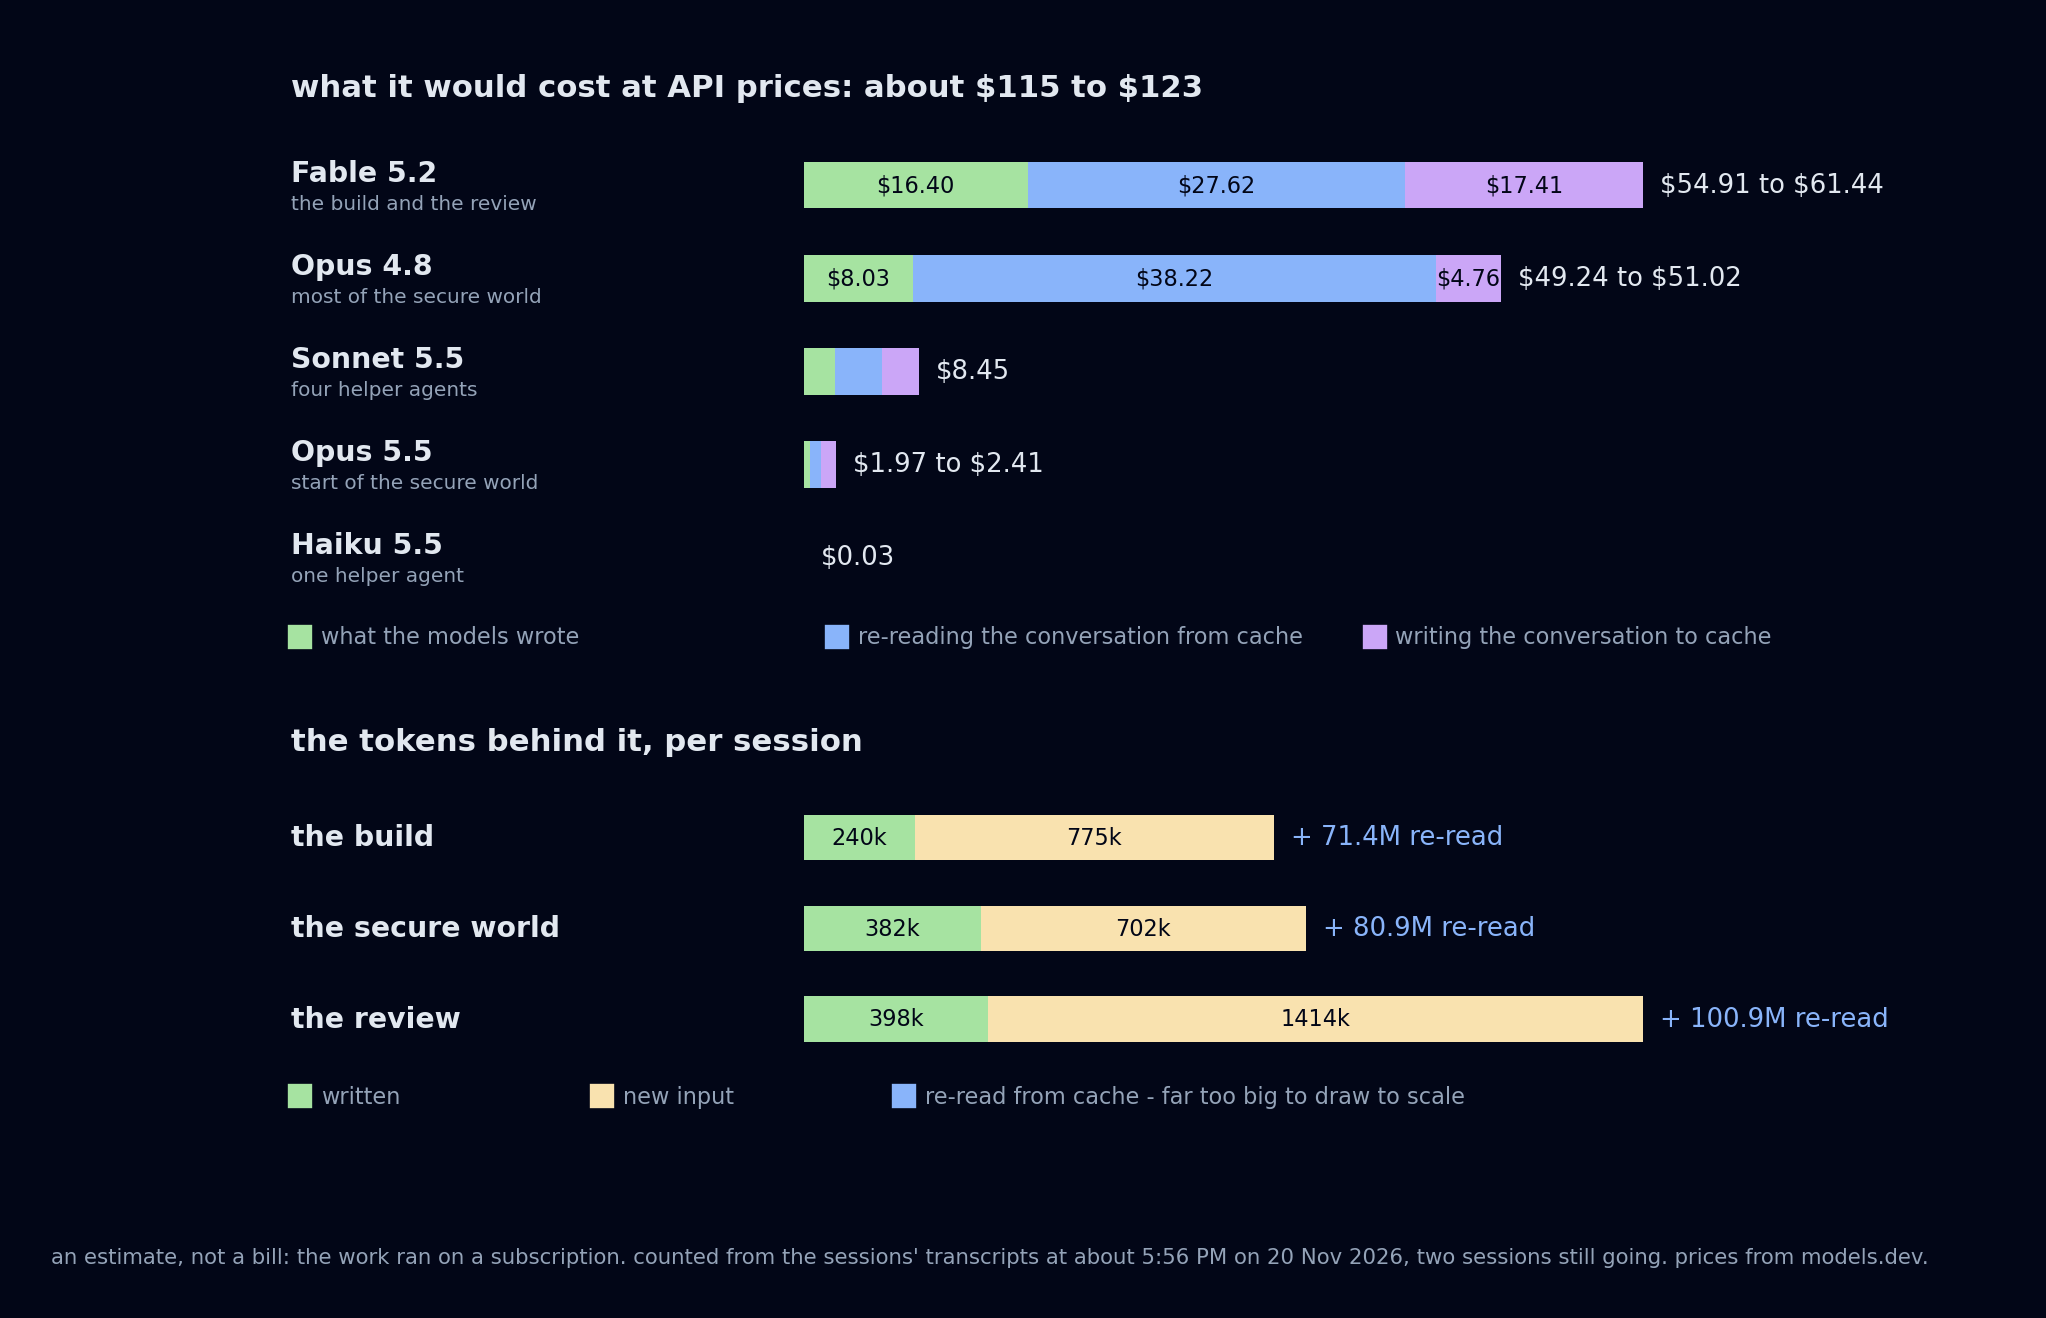
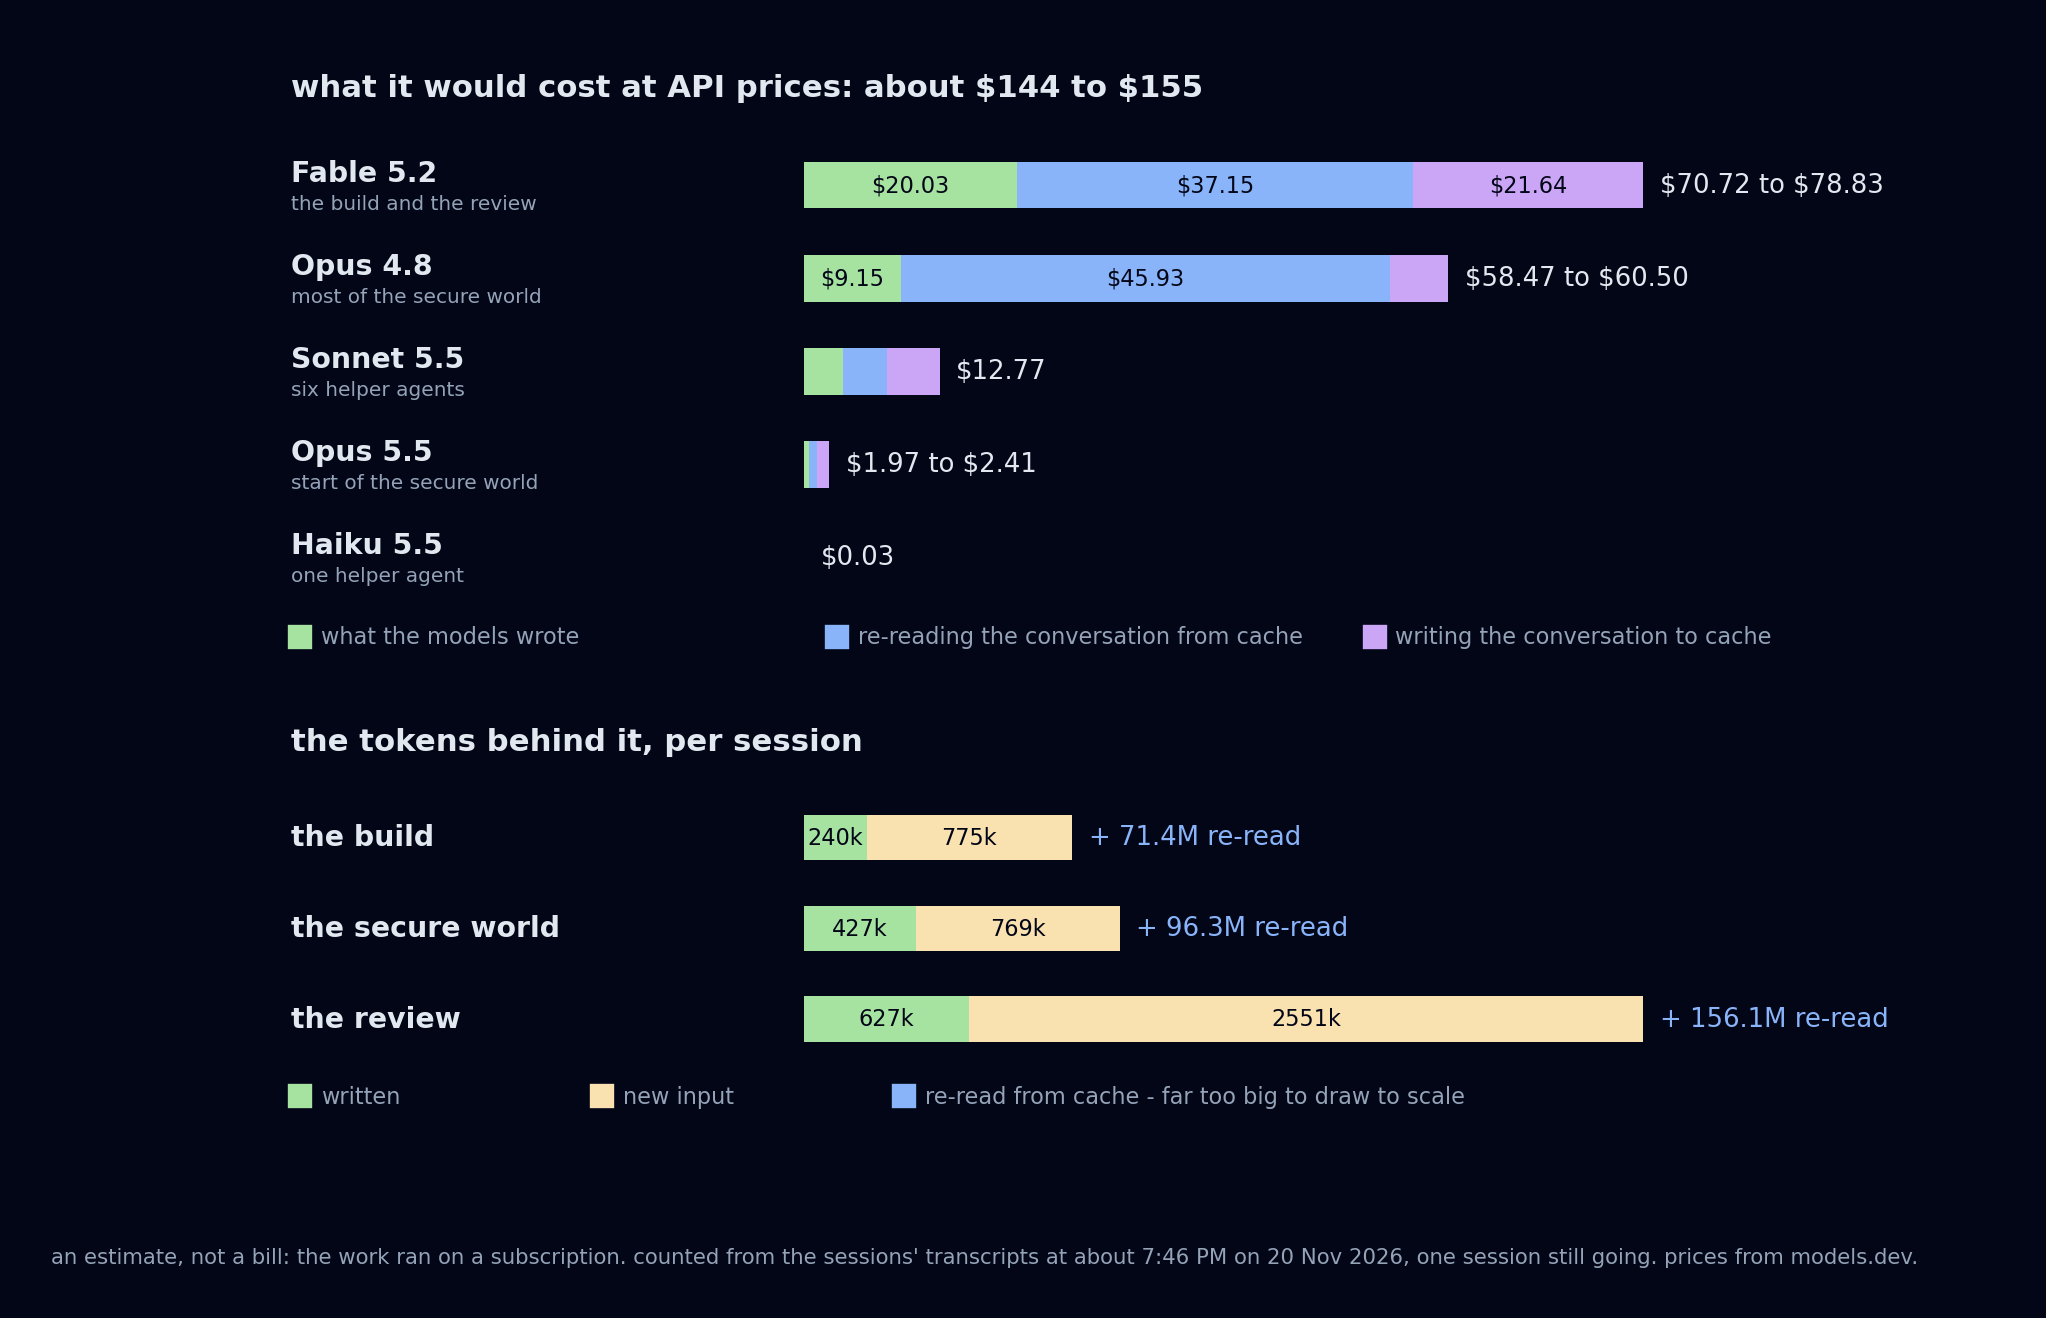
what it took: recounted at about 7:46 PM on 20 Nov, both charts redrawn
1,168 tool calls (85 REA, unchanged), about $144 to $155 at API prices, up
from the 5:56 PM count's 974 and $115 to $123: the blueprint, the third
blind read and the polish came after it. Same script, same prices.

Also corrects one line: the review session's 49 REA calls are all its own.
A per-file count shows its five helpers made none, so the old wording, which
credited some to the blind reads, was wrong.

diff --git a/tools/cost_chart.py b/tools/cost_chart.py
@@ -3,8 +3,8 @@
 and the tokens behind it.
 
 No firmware needed, the numbers are written in below. Tokens were counted from
-the three sessions' transcripts (and their helper agents) at about 5:56 PM on
-20 Nov 2026 with two sessions still going, so this is a snapshot. Prices are
+the three sessions' transcripts (and their helper agents) at about 7:46 PM on
+20 Nov 2026 with one session still going, so this is a snapshot. Prices are
 USD per million tokens from models.dev, read the same day. The work ran on a
 subscription: this is an estimate of the per-token price, not a bill.
 
@@ -28,17 +28,17 @@ OUT = "#a6e3a1"; READ = "#89b4fa"; WRITE = "#cba6f7"; NEW = "#f9e2af"
 # model, where it ran, uncached in, output, cache read, cache write,
 # prices (input, output, cache read, cache write), one-hour cache (True/False)
 MODELS = [
-    ("Fable 5.2", "the build and the review", 902, 410031, 138119018, 1087840, (8, 40, 0.2, 10), True),
-    ("Opus 4.8", "most of the secure world", 400, 321312, 76446581, 476338, (5, 25, 0.5, 6.25), True),
-    ("Sonnet 5.5", "four helper agents", 526, 227991, 34245203, 1099116, (2, 10, 0.1, 2.5), False),
+    ("Fable 5.2", "the build and the review", 1096, 500848, 185727852, 1352769, (8, 40, 0.2, 10), True),
+    ("Opus 4.8", "most of the secure world", 448, 365811, 91854082, 542882, (5, 25, 0.5, 6.25), True),
+    ("Sonnet 5.5", "six helper agents", 672, 366253, 41777663, 1970862, (2, 10, 0.1, 2.5), False),
     ("Opus 5.5", "start of the secure world", 74, 24871, 3768173, 144437, (4, 20, 0.2, 5), True),
     ("Haiku 5.5", "one helper agent", 30, 36274, 637626, 81089, (0.1, 0.5, 0.01, 0.125), False),
 ]
 # session, written, new input, re-read from cache (tokens)
 SESSIONS = [
     ("the build", 240_000, 775_000, 71_400_000),
-    ("the secure world", 382_000, 702_000, 80_900_000),
-    ("the review", 398_000, 1_414_000, 100_900_000),
+    ("the secure world", 427_000, 769_000, 96_300_000),
+    ("the review", 627_000, 2_551_000, 156_100_000),
 ]
 
 out = sys.argv[1] if len(sys.argv) > 1 else os.path.join(
@@ -111,7 +111,7 @@ for j, (colour, text) in enumerate(((OUT, "written"), (NEW, "new input"),
     b.text(x + wide * 0.025, -0.95, text, ha="left", va="center", fontsize=9.5, color=MUTED)
 
 fig.text(0.02, 0.01, "an estimate, not a bill: the work ran on a subscription. counted from the sessions' transcripts "
-         "at about 5:56 PM on 20 Nov 2026, two sessions still going. prices from models.dev.",
+         "at about 7:46 PM on 20 Nov 2026, one session still going. prices from models.dev.",
          fontsize=9, color=MUTED)
 fig.subplots_adjust(hspace=0.08)
 fig.savefig(out, bbox_inches="tight", pad_inches=0.3)

diff --git a/tools/tool_calls_chart.py b/tools/tool_calls_chart.py
@@ -4,7 +4,7 @@ was built and read, split by kind.
 
 No firmware needed, the numbers are written in below. They were counted from
 the three sessions' own transcripts (and their helper agents) at about
-5:56 PM on 20 Nov 2026, while two of the sessions were still going - a
+7:46 PM on 20 Nov 2026, while one of the sessions was still going - a
 snapshot, not a final tally. The transcripts aren't in the repo.
 
 usage: python3 tools/tool_calls_chart.py [output.png]
@@ -23,8 +23,8 @@ KINDS = [("shell commands", "#89b4fa"), ("REA (Ghidra)", "#a6e3a1"),
 # session, what it did, [shell, REA, file tools, everything else]
 ROWS = [
     ("the build", "phases 0 to 4: the outline, the how-to, the first bootloader read", [224, 21, 14, 10]),
-    ("the secure world", "phases 5 and 6: Trusty, the comparison, the README", [142, 15, 76, 13]),
-    ("the review", "checking the claims, the deep read of lk, two blind reads", [329, 49, 42, 39]),
+    ("the secure world", "phases 5 and 6: Trusty, the comparison, the README", [156, 15, 78, 17]),
+    ("the review", "checking the claims, the deep read of lk, three blind reads, the polish", [468, 49, 62, 54]),
 ]
 
 out = sys.argv[1] if len(sys.argv) > 1 else os.path.join(
@@ -59,6 +59,6 @@ for j, (kind, colour) in enumerate(KINDS):
 total = sum(sum(r[2]) for r in ROWS)
 rea = sum(r[2][1] for r in ROWS)
 fig.text(0.02, 0.01, f"{total} tool calls in all, {rea} of them REA. counted from the sessions' transcripts "
-         "at about 5:56 PM on 20 Nov 2026, with two sessions still going.", fontsize=9, color=MUTED)
+         "at about 7:46 PM on 20 Nov 2026, with one session still going.", fontsize=9, color=MUTED)
 fig.savefig(out, bbox_inches="tight", pad_inches=0.3)
 print(out)

diff --git a/docs/what-it-took.md b/docs/what-it-took.md
@@ -2,33 +2,33 @@
 
 building this repo - reading the firmware, writing it up, drawing the diagrams - ran across three Claude Code sessions and several helper agents. this page is the tool calls, the tokens, and what the same work would cost at API prices. how the reading itself was done is in [how the code was read](how-the-code-was-read.md).
 
-the three sessions, with their helpers: **the build** (phases 0 to 4 - the bundles, the images, the signing chain, the first bootloader read), **the secure world** (phases 5 and 6 - the Trusty TEE, the comparison, the diagrams) and **the review** (a third session, the deep `lk` boot-path read plus two blind reads of the finished repo). the git history is authored under two models (Fable 5.2 and Opus 4.8); the finer five-model split below is from the transcripts, not the commit log.
+the three sessions, with their helpers: **the build** (phases 0 to 4 - the bundles, the images, the signing chain, the first bootloader read), **the secure world** (phases 5 and 6 - the Trusty TEE, the comparison, the diagrams) and **the review** (a third session, the deep `lk` boot-path read, three blind reads of the finished repo, and the polish after them). the git history is authored under two models (Fable 5.2 and Opus 4.8); the finer five-model split below is from the transcripts, not the commit log.
 
-![tool calls per session, split into shell commands, REA, file tools and everything else: the build 269, the secure world 246, the review 459](../figures/tool-calls.png)
+![tool calls per session, split into shell commands, REA, file tools and everything else: the build 269, the secure world 266, the review 633](../figures/tool-calls.png)
 
-![the API-price estimate per model split into model output, cache reads and cache writes, about $115 to $123 in all, and the tokens per session: written, new input, and the far larger re-read total](../figures/cost-and-tokens.png)
+![the API-price estimate per model split into model output, cache reads and cache writes, about $144 to $155 in all, and the tokens per session: written, new input, and the far larger re-read total](../figures/cost-and-tokens.png)
 
 **tool calls, per session** (helper agents included):
 
 | session | shell | REA | file tools | everything else | total |
 |---|---|---|---|---|---|
 | the build | 224 | 21 | 14 | 10 | 269 |
-| the secure world | 142 | 15 | 76 | 13 | 246 |
-| the review | 329 | 49 | 42 | 39 | 459 |
-| **all three** | **695** | **85** | **132** | **62** | **974** |
+| the secure world | 156 | 15 | 78 | 17 | 266 |
+| the review | 468 | 49 | 62 | 54 | 633 |
+| **all three** | **848** | **85** | **154** | **81** | **1,168** |
 
 so **85 REA calls** read the bootloader and the secure world. REA is the small slice that does the actual decompiling; shell is the bulk, and most of that is little scripts that scan the whole image for "who jumps here" and "who reads this value" to find which functions are worth decompiling - the decompiler reads a function, the scripts pick which one. "file tools" is Read, Edit, Write, Grep and Glob; "everything else" is the diagram builds, coordination between the sessions, and the like.
 
-the review session's 49 REA calls cover its own deep `lk` read (18 distinct functions decompiled) and the two blind reads its helpers ran over the finished repo. opens and closes are a big share of any such count: REA runs one Ghidra at a time, so each read opens the image and closes it after.
+the review session's 49 REA calls are all its own, the deep `lk` read (18 distinct functions decompiled) among them. its five helper agents, the blind readers included, made none - they read the repo, not the firmware. opens and closes are a big share of any such count: REA runs one Ghidra at a time, so each read opens the image and closes it after.
 
 **tokens, per session** (helper agents included):
 
 | session | written | new input | re-read from cache |
 |---|---|---|---|
 | the build | 239,885 | 774,808 | 71,435,720 |
-| the secure world | 382,457 | 702,368 | 80,852,380 |
-| the review | 398,137 | 1,413,576 | 100,928,501 |
-| **all three** | **1,020,479** | **2,890,752** | **253,216,601** |
+| the secure world | 426,956 | 768,960 | 96,259,881 |
+| the review | 627,216 | 2,550,591 | 156,069,795 |
+| **all three** | **1,294,057** | **4,094,359** | **323,765,396** |
 
 "written" is model output; "new input" is input plus cache-creation tokens; "re-read" is cache reads - the whole conversation read again every turn, which is why it dwarfs the rest.
 
@@ -36,14 +36,14 @@ the review session's 49 REA calls cover its own deep `lk` read (18 distinct func
 
 | model | where it ran | estimated cost |
 |---|---|---|
-| Fable 5.2 | the build and the review sessions | $54.91 - $61.44 |
-| Opus 4.8 | most of the secure-world session | $49.24 - $51.02 |
-| Sonnet 5.5 | four helper agents | $8.45 |
+| Fable 5.2 | the build and the review sessions | $70.72 - $78.83 |
+| Opus 4.8 | most of the secure-world session | $58.47 - $60.50 |
+| Sonnet 5.5 | six helper agents | $12.77 |
 | Opus 5.5 | the start of the secure-world session | $1.97 - $2.41 |
 | Haiku 5.5 | one helper agent | $0.03 |
-| **all** | | **$114.61 - $123.35** |
+| **all** | | **$143.96 - $154.55** |
 
-so **about $115 to $123** for the whole repo so far. almost all of it is the cache, not the thinking: at the high end, re-reading the conversation every turn is $70.03 and writing it to cache $26.08, against $27.23 of model output and about a cent of fresh input.
+so **about $144 to $155** for the whole repo so far. almost all of it is the cache, not the thinking: at the high end, re-reading the conversation every turn is $88.01 and writing it to cache $33.17, against $33.36 of model output and about a cent of fresh input.
 
 the prices, USD per million tokens, from [models.dev](https://models.dev) (`models show`, read 20 Nov 2026):
 
@@ -59,10 +59,10 @@ and the tokens behind it, per model (uncached input / output / cache read / cach
 
 | model | uncached in | output | cache read | cache write |
 |---|---|---|---|---|
-| Fable 5.2 | 902 | 410,031 | 138,119,018 | 1,087,840 |
-| Opus 4.8 | 400 | 321,312 | 76,446,581 | 476,338 |
+| Fable 5.2 | 1,096 | 500,848 | 185,727,852 | 1,352,769 |
+| Opus 4.8 | 448 | 365,811 | 91,854,082 | 542,882 |
 | Opus 5.5 | 74 | 24,871 | 3,768,173 | 144,437 |
-| Sonnet 5.5 | 526 | 227,991 | 34,245,203 | 1,099,116 |
+| Sonnet 5.5 | 672 | 366,253 | 41,777,663 | 1,970,862 |
 | Haiku 5.5 | 30 | 36,274 | 637,626 | 81,089 |
 
-*source and limits:* the calls and tokens were counted by a script (`tools/tool_calls_chart.py` draws the tool-call chart, `tools/cost_chart.py` the cost one) from the three sessions' transcripts and every helper agent's - API-reported usage per message, de-duplicated by message id; tool-use blocks de-duplicated by id - at about 5:56 PM on 20 Nov 2026, as one consistent run. two sessions were still going then, so it's a snapshot and the real totals are a little higher. two short pre-fork stubs were left out so nothing is double-counted. the cost is an estimate at list prices, not a bill. its range is the cache-write price: models.dev lists one rate, so the low end prices every cache write at it, and the high end prices the three main sessions' writes at the one-hour-cache rate (twice the input price; the script does it per model, for Fable 5.2, Opus 4.8 and Opus 5.5, which comes to the same thing because every helper ran on Sonnet or Haiku) - that doubling is Anthropic's rule as best i understand it, but it wasn't verified on the day. all the arithmetic was done by a script, not by hand.
+*source and limits:* the calls and tokens were counted by a script (`tools/tool_calls_chart.py` draws the tool-call chart, `tools/cost_chart.py` the cost one) from the three sessions' transcripts and every helper agent's - API-reported usage per message, de-duplicated by message id; tool-use blocks de-duplicated by id - at about 7:46 PM on 20 Nov 2026, as one consistent run (a recount of an earlier 5:56 PM one). one session was still going then, so it's a snapshot and the real totals are a little higher. two short pre-fork stubs were left out so nothing is double-counted. the cost is an estimate at list prices, not a bill. its range is the cache-write price: models.dev lists one rate, so the low end prices every cache write at it, and the high end prices the three main sessions' writes at the one-hour-cache rate (twice the input price; the script does it per model, for Fable 5.2, Opus 4.8 and Opus 5.5, which comes to the same thing because every helper ran on Sonnet or Haiku) - that doubling is Anthropic's rule as best i understand it, but it wasn't verified on the day. all the arithmetic was done by a script, not by hand.
